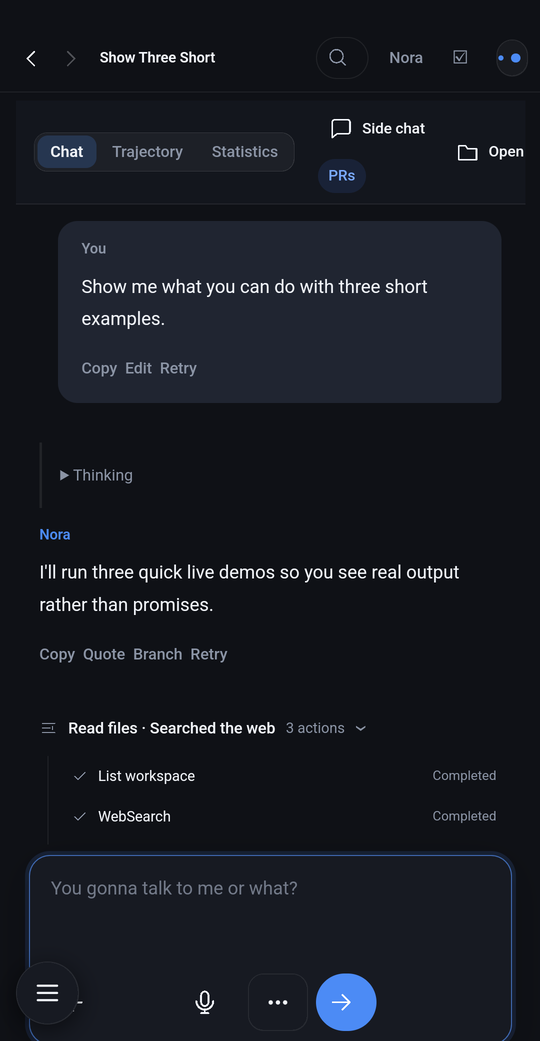
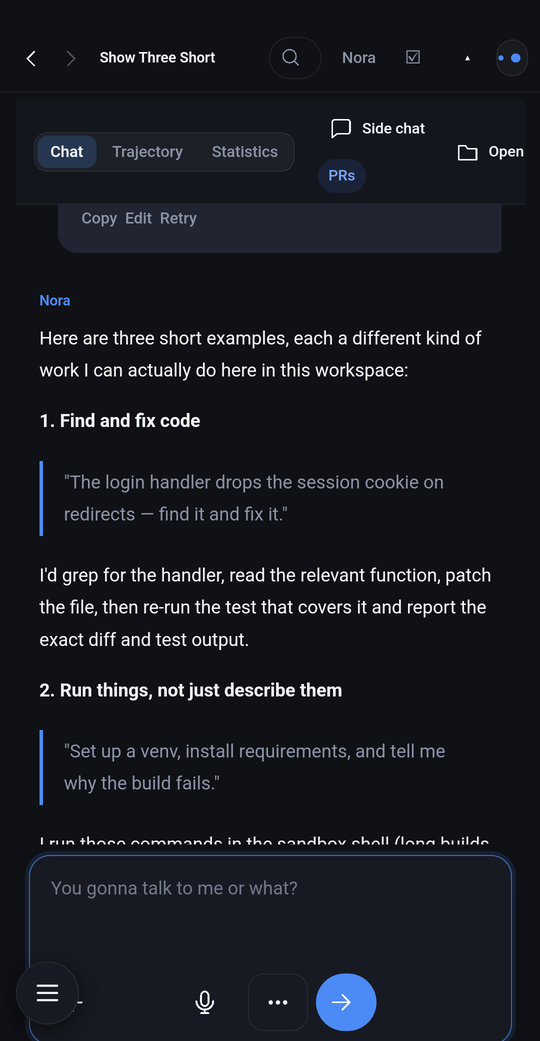
Document the sync protocol and write the handoff notes an AI needs; refresh the screenshots

diff --git a/docs/SYNC.md b/docs/SYNC.md
@@ -1,0 +1,134 @@
+# How the sync works
+
+A phone and a computer hold the same assistant. This is the protocol that keeps them in agreement,
+written so that anyone — including a model picking this up cold — can see what it guarantees and why.
+
+## The shape of the problem
+
+Two devices, one person. Both are used, sometimes in different places, sometimes both offline. The
+things that must agree:
+
+* **State** — persona, memory, preferences. One copy of each, by name.
+* **Conversations** — one file per chat, and there will be many, growing, on both sides.
+
+What must never happen: a sync that loses a conversation, shortens a transcript, or ships a credential.
+
+## Why it is not a chat-channel sync
+
+The same house runs a message relay between agent instances. It is tempting to reuse it — two machines
+that already talk, why not let them move files?
+
+Because a message path ends in a model turn. The bytes come back summarised, reordered, or helpfully
+rewritten. A memory file that gets condensed in transit is data loss wearing a friendly face, and it
+fails silently. Sync is therefore a separate lane in the same daemon: deterministic, hashed, no model
+anywhere in the path.
+
+## Discovery: ask the house, don't sniff the network
+
+The phone does not read the Wi-Fi name. It could — with location permission — and it would be wrong
+anyway: the question a person actually asks is *is that computer on?*
+
+So a sync pass opens a TCP connection to each configured computer with a **3-second** timeout. Off,
+asleep, or simply not on this network all fail the same way and in the same time, with a sentence
+instead of a hang:
+
+```
+the computer is not answering at 192.168.1.50:8790
+```
+
+A person may have more than one computer. `sync.json` holds a list, each with its own token, and the
+first one that answers gets the pass:
+
+```json
+{"homes": [
+  {"name": "study", "url": "http://192.168.1.50:8790/api/sync", "token": "…"},
+  {"name": "cabin", "url": "http://10.0.0.20:8790/api/sync",  "token": "…"}
+]}
+```
+
+A bare `{"url": …, "token": …}` still loads and is treated as one computer, so an older config keeps
+working. Measured failover with a dead entry first: **4.7 s for the whole pass**, dead one included.
+
+## The protocol
+
+Three routes on the desktop daemon, all requiring `Authorization: Bearer <token>`:
+
+```
+GET  /api/sync/manifest                     -> {"ok":true,"files":[{path,sha256,size,mtime,rev}]}
+GET  /api/sync/file?path=memory/MEMORY.md   -> raw bytes
+PUT  /api/sync/file?path=memory/MEMORY.md   -> {"ok":true,"sha256":…}
+```
+
+`/get` and `/put` are accepted as aliases of `/file`. One pass is: fetch the manifest, walk the union
+of both sides' paths, and decide per file.
+
+### What may cross
+
+A whitelist of patterns, matched against the state root — never a path built from anything a client
+sends without checking:
+
+```
+persona.md
+memory/MEMORY.md
+memory/USER.md
+memory/FAMILY-REFERENCE.txt
+preferences.json
+sessions/*.json
+```
+
+Absolute paths, `..`, and anything not on the list are refused before they touch the filesystem.
+**Credentials never sync** — `credentials.key`, `providers.json` and anything under profiles are
+deliberately outside the list, because a sync that copies secrets turns one compromised machine into
+two.
+
+### How each class resolves
+
+| Class | Rule | Failure mode it prevents |
+|---|---|---|
+| State | newer `mtime` wins; the losing copy is kept as `<name>.conflict-<machine>-<stamp>` | one device silently erasing what the other learned |
+| Conversations | **union** — one file per chat, named by its own id | two devices that talked in different places losing each other's history |
+| Same conversation, both changed | higher `_quixiPersistenceRevision` wins; on a tie, the longer file wins; the loser is kept | a transcript being shortened by a device that merely opened the app |
+
+There is no delete operation. A sync can create and replace files; it cannot remove them. Anything
+that lost a conflict stays on disk until a person deletes it.
+
+### Sizes
+
+Bodies up to **64 MB**. This is not theoretical: a long conversation with tool output in it reached
+22 MB, and an 8 MB ceiling rejected it as a malformed request while the file itself was perfectly
+fine.
+
+## When it runs
+
+* **On every app open**, a few seconds after launch — the common case, the phone is picked up.
+* **On demand**, through the app's own sync entry point.
+* **Hourly in the background** is the intended third trigger and is **not built yet**: it needs the
+  client to live in the shared native library so a scheduled worker can call it without the UI. Until
+  then, a phone that is never opened does not sync.
+
+## What the phone reports
+
+Every pass writes its outcome to `sync-status.json` beside the app's data: when it ran, which computer
+answered, what moved, and if nothing answered, what was tried. Failures stay quiet — the app does not
+interrupt — but the state is there so it can be said once, later, in words:
+
+> "We're out of sync. Turn on your computer on the same Wi-Fi and tell me, and I'll catch up."
+
+## Verifying it
+
+Against a live pair, in both directions:
+
+```
+pass 1   home:"study"  pushed 3  pulled 1  errors 0
+pass 2   pushed 0  pulled 0                       ← converged
+
+desktop: 50 conversations   phone: 50   differing: 0
+```
+
+And the failover path, with an unreachable computer listed first:
+
+```
+study(off) → ok:false, 3 s timeout
+cabin      → ok:true
+whole pass: 4,691 ms
+```

diff --git a/docs/AI-HANDOFF.md b/docs/AI-HANDOFF.md
@@ -1,0 +1,99 @@
+# Notes for whoever picks this up next
+
+Written for an AI or an engineer arriving cold, with no memory of the work. It is deliberately blunt
+about what is finished, what is a stub, and what will bite you.
+
+## What this project is
+
+An Android application that runs a full assistant — model interface, memory, tools, mail — inside the
+APK, with no computer required. It syncs its state with a desktop over the local network, Palm-style:
+you arrive, it notices, it catches up.
+
+Two things are true at once and it is worth holding both:
+
+1. **It is a general product.** Nothing in this repository belongs to one person. Personas are build
+   inputs, memory is a file, and the sync is a protocol.
+2. **It was built for one person first** — someone who is not technical, whose phone has to work in a
+   car and a kitchen, and who will never open a terminal. Every rough edge that survived testing is an
+   edge she would have hit.
+
+## The invariants
+
+Break one of these and the product is wrong, however well the code compiles.
+
+1. **A sync never loses data.** State resolves by recency with the loser kept. Conversations are
+   unioned by id, never merged. There is no delete verb. If you add one, add tombstones at the same
+   time or you will delete someone's history.
+2. **Credentials never travel.** The whitelist in `sync_routes.py` is the whole surface. Adding
+   `providers.json` or `credentials.key` to it is one line and would leak every key on both machines.
+3. **No model in the data path.** The message relay exists; do not route files through it. A model
+   turn is allowed to rewrite what it forwards, and a rewritten memory file is silent loss.
+4. **A failure is a sentence, not a hang.** Anything that reaches the network has a short timeout and
+   returns text a person can read. The 3-second connect timeout is load-bearing: it is what makes "is
+   the computer on?" an answerable question.
+5. **The phone pays for every pixel.** Landscape is ~800×360 CSS px. Space comes out of text and
+   chrome, never out of a touch target (~44 px). Never say the same thing twice on one screen.
+6. **The persona is a build parameter.** `PERSONA_SRC=… ./build-apk.sh` — one codebase, many
+   assistants, no forks.
+
+## Where things live
+
+| Path | What it is |
+|---|---|
+| `docs/guide/` | the setup guide: PDF, HTML source, figures, regenerated by `tools/build_guide.py` |
+| `docs/SYNC.md` | the sync protocol, its guarantees, and the numbers behind them |
+| `docs/SYNC.md`'s sibling `DESIGN.md` | why each architectural decision was taken, and what it cost |
+| `sync/sync_server.py` | a standalone sync server, for a desktop that is not running the full room daemon |
+| `sync/windows/` | the same server as a double-clickable Windows start |
+| `tools/` | capture, annotate, build the guide, scan for identifying material |
+| `docs/screenshots/` | product shots, cropped to the app surface |
+
+The application source itself is a separate project; this repository documents, wraps and syncs it.
+
+## How the pieces talk
+
+```
+phone app ──HTTP──> desktop room daemon
+                    ├── /api/state      (which boxes are alive)
+                    ├── /api/send       (message relay between agent instances)
+                    └── /api/sync/*     (this project: deterministic file sync)
+```
+
+If you change the sync, the client that must keep working is in the app (`app/src-tauri/src/sync.rs`
+in the application repository): it walks a list of configured computers, compares a manifest of
+hashes, and writes conflict copies on disagreement. Both ends implement the same rules; a change on
+one side alone produces a sync that appears to work and quietly does nothing.
+
+## Verifying, without trust
+
+```bash
+# the package must not carry identifying material
+/usr/bin/python3 tools/doxcheck.py .
+
+# the guide must rebuild to the same page numbers, with no drift
+/usr/bin/python3 tools/build_guide.py
+
+# a round trip against a live daemon
+curl -s -H "Authorization: Bearer $TOKEN" http://127.0.0.1:8790/api/sync/manifest
+curl -s -X PUT --data-binary @file 'http://127.0.0.1:8790/api/sync/file?path=memory/MEMORY.md'
+curl -s 'http://127.0.0.1:8790/api/sync/file?path=memory/MEMORY.md' | sha256sum
+```
+
+A sync is correct when a second pass moves nothing. Run it twice; the second pass is the assertion.
+
+## Known gaps, stated plainly
+
+| Gap | Consequence | Where it goes |
+|---|---|---|
+| No background trigger yet | a phone that is never opened never syncs; the hourly worker needs the client moved into the shared native library first | `docs/SYNC.md`, "When it runs" |
+| No sync settings UI | a release build cannot be pointed at a desktop without writing a file; debug builds can, via adb | app Settings → Sync |
+| Conversation history import | memory imports, past transcripts do not | one-time importer |
+| In-app mail send | fills every field, stops one tap short: the provider only sends on trusted input | the user's own tap, or an accessibility service — a bigger decision |
+| Android Auto | the menu path is documented, not photographed on a device that has it | a device with Android Auto |
+
+## Tone
+
+The documentation is written for a person who is not impressed by jargon and does not have time. Short
+sentences, real numbers, and a stated cost for every claim. Where something is unfinished it says so in
+the same voice as everything else — a document that only lists successes is not a document anyone can
+work from.

diff --git a/docs/VISIT-CHECKLIST.md b/docs/VISIT-CHECKLIST.md
@@ -4,27 +4,27 @@ For handing the app to someone else's phone. Written to be followed once, standi
 
 ## Take
 
-- [ ] Her APK, built with her persona: `QuixiDesk-Scintilla-arm64.apk` (or whichever persona is hers)
+- [ ] The APK built with their persona — `PERSONA_SRC=<persona>.md ./build-apk.sh arm64 release`
 - [ ] `QuixiDesk-Android-Guide.pdf` — so she keeps the instructions after you leave
 - [ ] This laptop, with `sync/sync_server.py` and a token already chosen
 - [ ] Your phone or a USB-C cable, whichever gets the file across
-- [ ] A model service key for her, if she does not already have one
+- [ ] A model service key for them, if they do not already have one
 
 ## Before you sit down
 
-- [ ] Confirm her phone is **arm64** (every phone since ~2016 is) and Android 10 or newer
-- [ ] Decide her persona name and check it is the one compiled into her APK — the app shows it in the
+- [ ] Confirm their phone is **arm64** (every phone since ~2016 is) and Android 10 or newer
+- [ ] Decide the persona name and check it is the one compiled into the APK — the app shows it in the
       top bar, so this is visible at a glance
-- [ ] Choose the sync token now, not in her kitchen:
+- [ ] Choose the sync token now, not in their kitchen:
 
       head -c 24 /dev/urandom | base64 | tr -d '/+=' | head -c 28
 
-## On her phone, in this order
+## On their phone, in this order
 
-1. **Transfer** the APK: cable → Internal storage → Download, or send it to her by mail.
+1. **Transfer** the APK: cable → Internal storage → Download, or send it to them by mail.
 2. **Install** — tap the file, allow from this source, Install, Open.
 3. **Developer options** — Settings → About phone → tap Build number seven times.
-4. **Wireless debugging** only if you want to update her remotely later; otherwise skip it and leave
+4. **Wireless debugging** only if you want to update their phone remotely later; otherwise skip it and leave
    USB debugging off. This is the one step with a security cost, and it is optional.
 5. **Battery** — Settings → Apps → QuixiDesk → Battery → Unrestricted. Do not skip this one; without it
    the app is killed in the background and appears to forget things.
@@ -32,8 +32,8 @@ For handing the app to someone else's phone. Written to be followed once, standi
    a model. Send one message and confirm a reply comes back before moving on.
 7. **Mail**, if she wants it — ask the assistant to check mail, sign in on the page it opens, clear the
    human check once. Then ask it for one subject line to prove it works.
-8. **Sync** — put the desktop and the token into her app's `sync.json` (or run `sync/set_sync.py`), start
-   the server on the laptop, then open her app. Ask it to sync. It should report what moved.
+8. **Sync** — put the desktop and the token into the app's `sync.json` (or run `sync/set_sync.py`), start
+   the server on the laptop, then open the app. Ask it to sync. It should report what moved.
 
 ## Prove it before you leave
 
@@ -46,8 +46,8 @@ For handing the app to someone else's phone. Written to be followed once, standi
 
 ## Leave behind
 
-- [ ] The PDF in her Downloads, and a note of where it is
-- [ ] The laptop server left running, or a shortcut on her desktop to start it
+- [ ] The PDF in their Downloads, and a note of where it is
+- [ ] The desktop server left running, or a shortcut to start it
 - [ ] Nothing with a credential written on paper
 
 ## If something fails, in order of likelihood

diff --git a/README.md b/README.md
@@ -9,13 +9,15 @@ someone who did not build it: a photographed setup guide, the two-way sync servi
 Linux desktop, and the scripts that regenerate both.
 
 ```
-docs/guide/       the setup guide — 16 pages, PDF and source, every figure regenerable
-docs/screenshots/ product shots, taken from a device and cropped to the app surface
-docs/VISIT-CHECKLIST.md   what to take and the order to do it in, for setting up someone else's phone
-sync/             the desktop half of the sync: one Python file, no dependencies
-tools/            the scripts that build the guide and scan the package for identifying material
-DESIGN.md         what was built, why, what it cost, and what is unfinished
-SCAN-REPORT.md    what the identifier scan looks for, and its result at packaging time
+docs/guide/        the setup guide — 16 pages, PDF and source, every figure regenerable
+docs/SYNC.md       the sync protocol: what it guarantees, and the numbers behind it
+docs/AI-HANDOFF.md written for whoever picks this up next — invariants, layout, honest gaps
+docs/screenshots/  product shots, taken from a device and cropped to the app surface
+docs/VISIT-CHECKLIST.md   what to take and the order to do it in, when setting up someone else's phone
+sync/              the desktop half of the sync: one Python file, no dependencies
+tools/             the scripts that build the guide and scan the package for identifying material
+DESIGN.md          what was built, why, what it cost, and what is unfinished
+SCAN-REPORT.md     what the identifier scan looks for, and its result at packaging time
 ```
 
 
@@ -65,14 +67,20 @@ python sync/sync_server.py --root ~/QuixiDesk --token <a-long-random-string>
 
 On Windows, double-click `sync/windows/start-sync-server.cmd` after putting your token in it.
 
-On the phone, one file in the app's private storage points at it:
+On the phone, one file in the app's private storage points at it — one entry per computer, because a
+person may have more than one and the phone should not have to be told which one it is near:
 
 ```json
-{ "url": "http://192.168.1.50:8788", "token": "the-same-string" }
+{ "homes": [
+    { "name": "study", "url": "http://192.168.1.50:8788", "token": "…" },
+    { "name": "cabin", "url": "http://10.0.0.20:8788",  "token": "…" }
+] }
 ```
 
-The app then syncs every time it opens. `sync/set_sync.py` writes that file over adb so nobody has to
-type a path into a device shell.
+The app syncs every time it opens, trying each computer in turn with a three-second timeout, so one
+that is switched off costs three seconds and does not block the other. `sync/set_sync.py` writes that
+file over adb so nobody has to type a path into a device shell. The full protocol is in
+[`docs/SYNC.md`](docs/SYNC.md).
 
 ### What syncs, and what never does
 

diff --git a/DESIGN.md b/DESIGN.md
@@ -73,6 +73,11 @@ data loss that the person cannot see happening; asking a person to resolve a mer
 both is the only option that is safe by default, and it means a sync can never be the reason someone
 loses their assistant's memory.
 
+The protocol has since grown two things worth reading in full in [`docs/SYNC.md`](docs/SYNC.md):
+conversations are **unioned** rather than resolved (one file per chat, so two devices that talked in
+different places simply end up holding both), and a phone may know **several computers**, trying each
+in turn with a three-second timeout so one that is switched off never blocks another.
+
 **Measured:** `pushed 3 · pulled 1 · errors 0`, then `pushed 0 · pulled 0` on the next pass. A file
 edited on the desktop was pulled on the following pass; the replaced copy stayed on disk.
 
